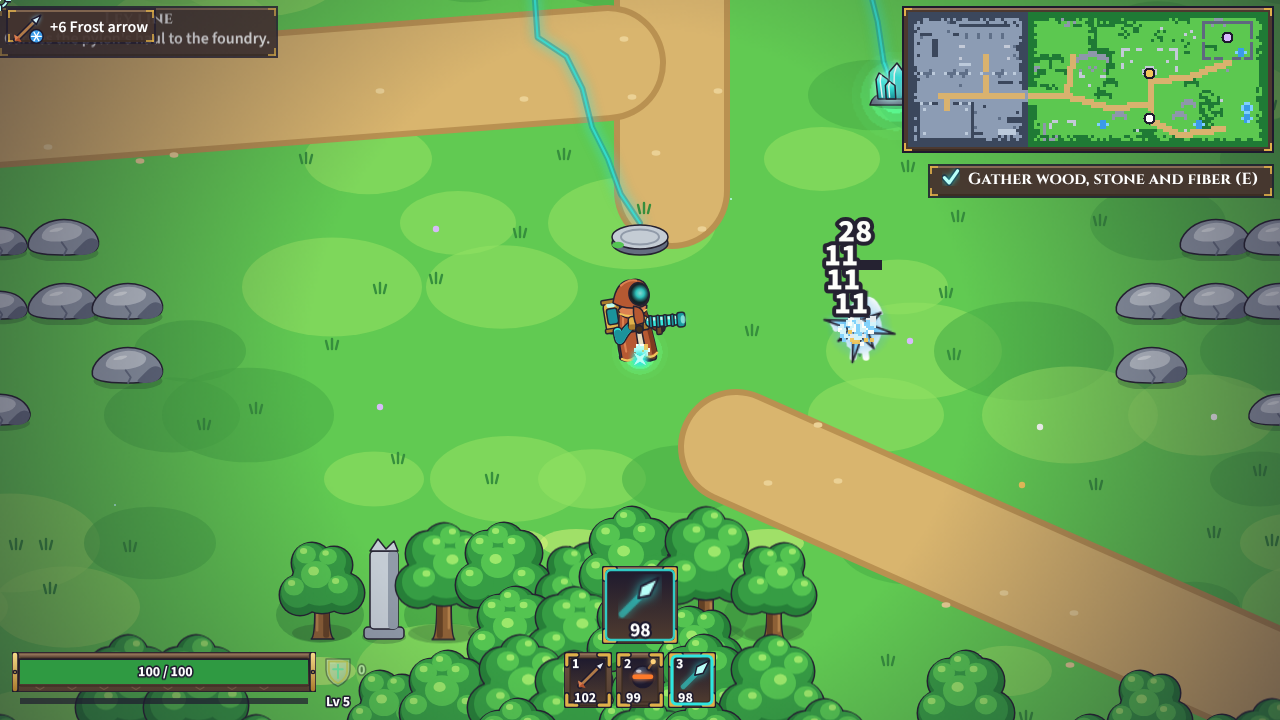
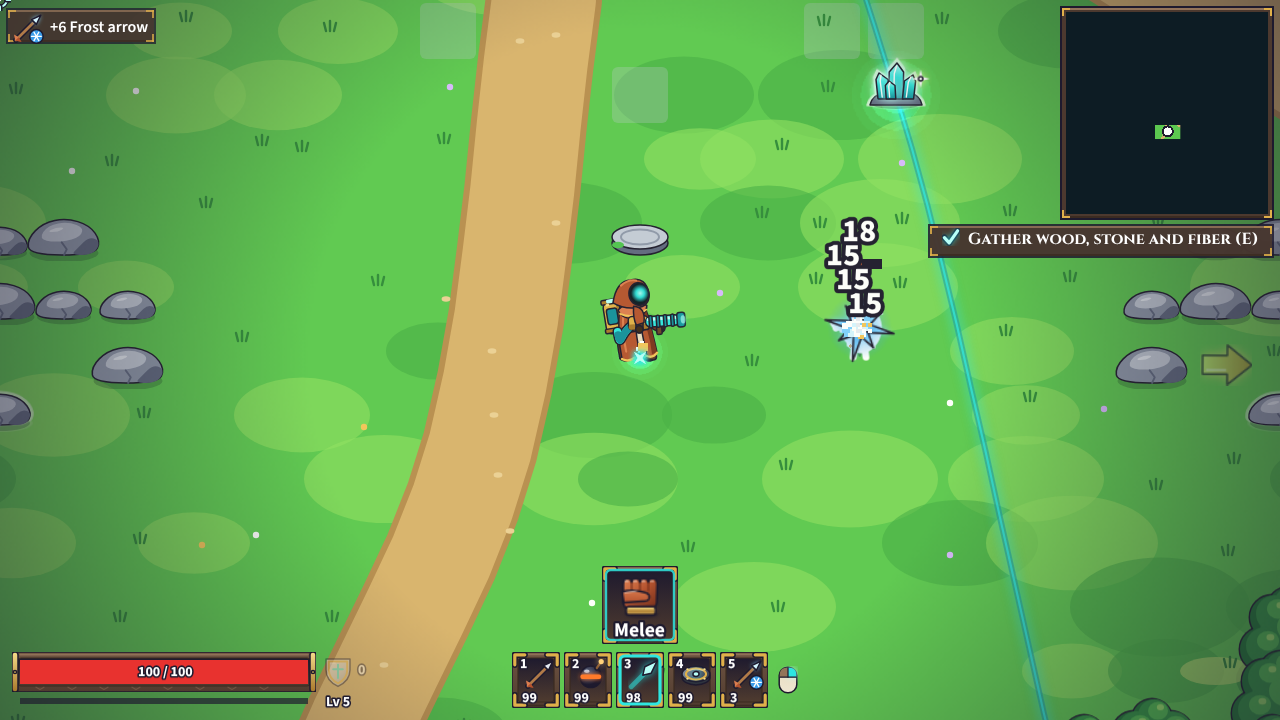
Fix 037's Shatterpoint shot staging; retake it
The staging collected frost arrows but never selected them, so the tube
fired plain arrows and the Husk never froze. Hold them by name.

Claude-Session: https://claude.ai/code/session_019ig8gw5L4yavYF6tvwkS5C

diff --git a/tests/e2e/talentsShots.spec.ts b/tests/e2e/talentsShots.spec.ts
@@ -150,6 +150,8 @@ test.describe('review screenshots (037)', () => {
       const p = g.step(1).player;
       for (let i = 0; i < 6; i++) g.drop('arrow+frost', p.x, p.y + 4);
       h.collect();
+      // Selected by name: the hotbar's first slot holds the plain arrows ?playtest carries.
+      h.hold('arrow+frost');
       const q = g.getState().player;
       const id = g.spawnEnemy('husk', q.x + 120, q.y).enemies.at(-1)?.id;
       // Frost arrows until it freezes (its health topped up), then a ley bolt.

diff --git a/docs/backlog.md b/docs/backlog.md
@@ -92,5 +92,5 @@ Shaun's drive rant on 2026-10-19 (docs/brainstorm/2026-10-19-drive-rant.md) is q
 Fixes to built behaviour that need no design. Each goes on its own branch and PR.
 - Fixed in 047 (the grid replaced the panel): the inventory panel's Wood row drew "3 at risk" over "home 5" (found in review of 045, 045.11; on main since 031). 047 replaces the panel with the grid inventory, so check it there.
 - The Stages panel showed "0/4 arrows" while the player had arrows in an intake entrance and in the inventory (Shaun, 2026-10-20). Fixed in InsanityWolfz/Pipeline#27: the panel counts carried rounds plus the intake entrances (Shaun chose option A, 2026-10-20).
-- 037's Shatterpoint review shot is broken on main (found in 054's review); retake or fix the shot's staging.
+- Fixed on `claude/fix-037-shatterpoint-shot`: 037's Shatterpoint review shot was broken on main (found in 054's review). Its staging picked up frost arrows but never selected them, so the tube fired the plain arrows in the hotbar's first slot and the Husk never froze; it now holds the frost arrows by name. Shot retaken (docs/review/037/05).
 - The sandbox loadout panel's "−" button (setRound) may not cycle an entrance's ammo backwards (found in 054's review); check and fix.

diff --git a/docs/progress.md b/docs/progress.md
@@ -2,6 +2,11 @@
 
 Newest entry first.
 
+## 2026-10-21: Bug: 037's Shatterpoint review shot
+**Changed:** on `claude/fix-037-shatterpoint-shot`, the Shatterpoint shot (talentsShots.spec.ts) selects the frost arrows it picks up; it fired the plain arrows in the hotbar's first slot, so the Husk never froze and no shatter came. Retook docs/review/037/05 only. `npm run check` passes; talentsShots.spec.ts passes with REVIEW_SHOTS=1.
+
+**Next:** Shaun merges the PR.
+
 ## 2026-10-21: 055 merged
 **Changed:** Shaun merged 055 (boss doors and the rimestone pylon: both arenas walled with a door, E in and out, the Frozen Grotto's rimestone pylon), InsanityWolfz/Pipeline#48.
 
